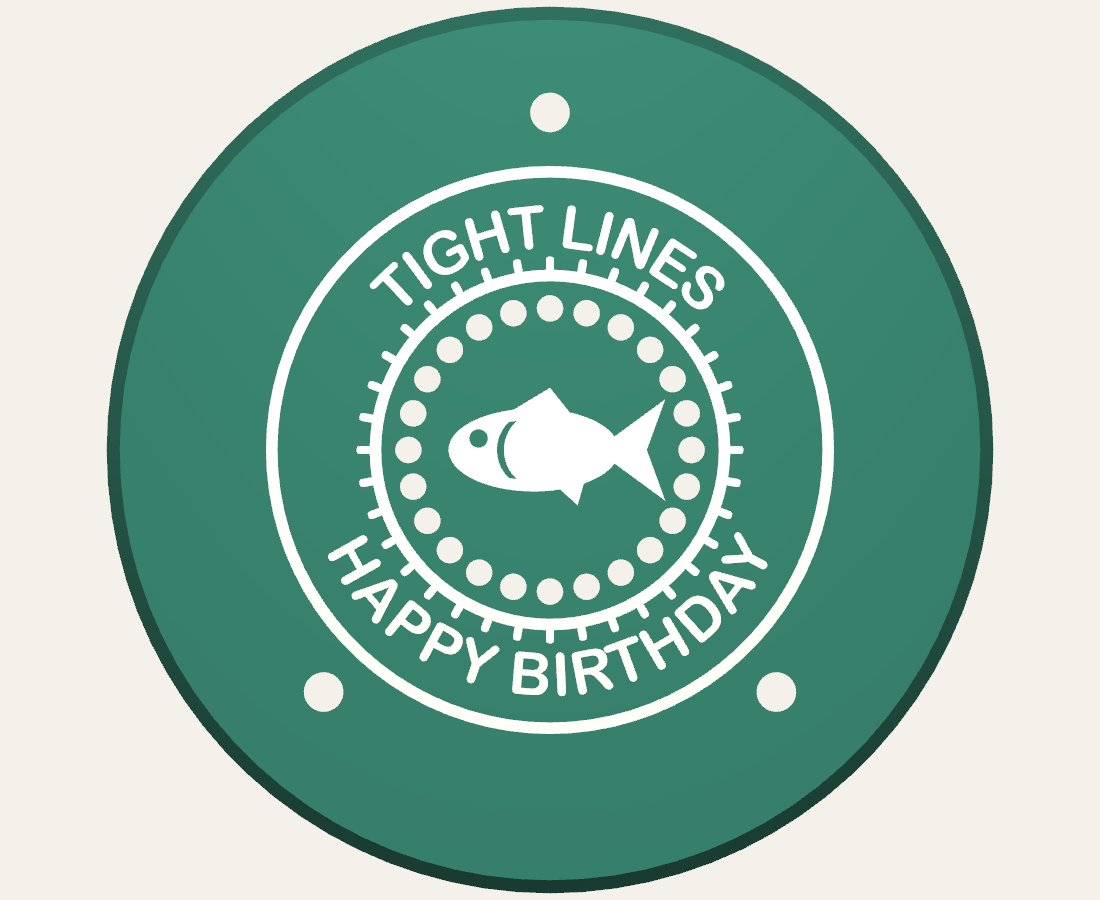
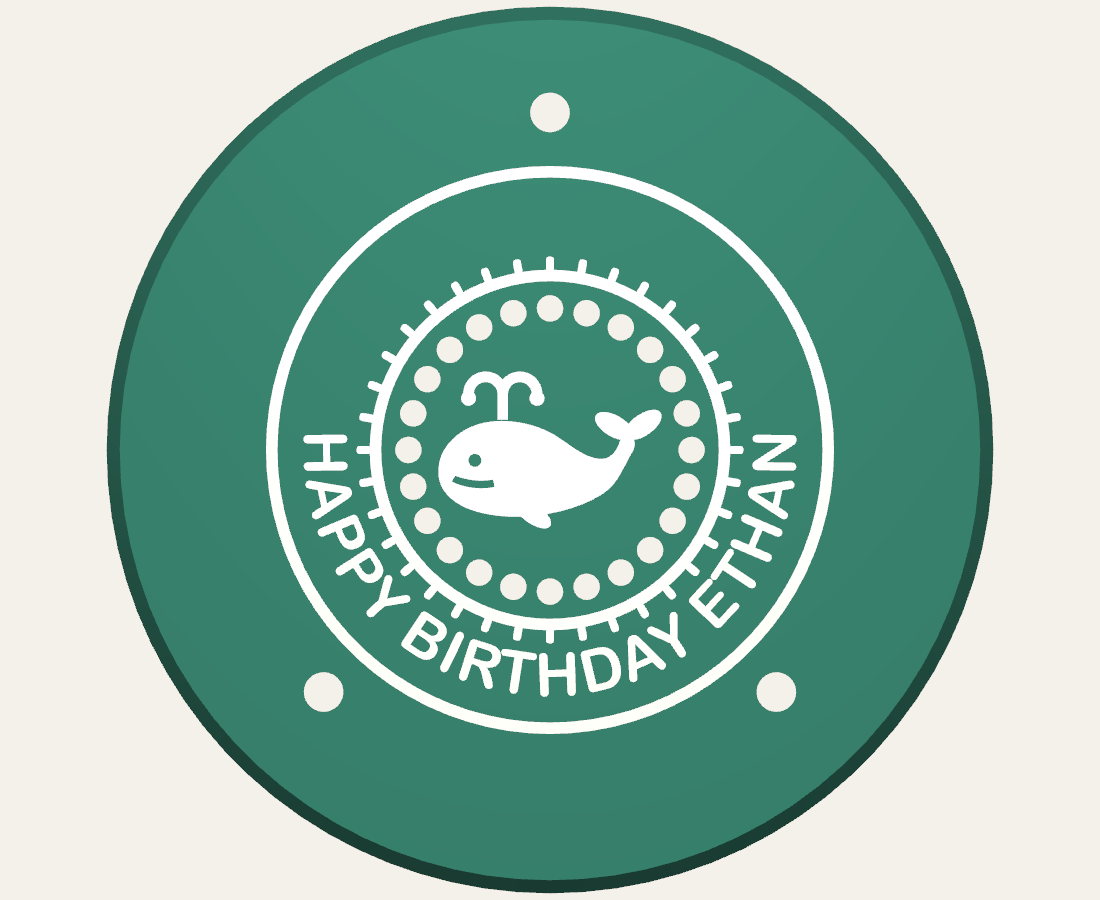
case: back art is a spouting whale and the only text is HAPPY BIRTHDAY ETHAN; check.py keeps the art clear of the grille holes

Changed region(s): [[0.2782, 0.4667, 0.7418, 0.7778], [0.4018, 0.4044, 0.6182, 0.5911], [0.34, 0.2178, 0.6491, 0.3422]]

diff --git a/case/parts.py b/case/parts.py
@@ -1,7 +1,7 @@
 """Case geometry, built from params.py (what you tune) and board.py (what was measured).
 
 The case is one cup shaped like a fly reel: the glass is the spool face, the rim is line wound
-between two flanges, and the back plate carries a drag-knob ring, a fish and two lines of
+between two flanges, and the back plate carries a drag-knob ring, a whale and a line of
 text. The board drops in glass-up and three M2 screws through the back pull its own SMT
 standoffs down onto posts, so nothing clips or glues. Two printed plungers carry PWR and BOOT
 through the rim. The battery variant is the same cup with the floor lowered by one cell.
@@ -20,12 +20,13 @@ from build123d import (
     Ellipse,
     Part,
     Plane,
-    Polygon,
     Polyline,
     Pos,
+    Rectangle,
     RectangleRounded,
     Rot,
     Sketch,
+    Spline,
     Text,
     ThreePointArc,
     extrude,
@@ -203,19 +204,53 @@ def port_cutouts() -> Part:
     return cuts
 
 
-def fish(length: float) -> Sketch:
-    """A side-on fish, nose to the left, centred on the origin."""
-    n = length
-    body = Pos(-0.07 * n, 0) * Ellipse(0.37 * n, 0.18 * n)
-    tail = Polygon(
-        (0.2 * n, 0), (0.5 * n, 0.22 * n), (0.42 * n, 0), (0.5 * n, -0.22 * n), align=None
+def whale(n: float) -> Sketch:
+    """A cartoon whale about `n` long: nose left, tail raised, spouting. Centred on the origin."""
+
+    def at(x, y):
+        return Pos(x * n, y * n)
+
+    outline = Spline(
+        *[
+            (x * n, y * n)
+            for x, y in (
+                (-0.50, -0.02),
+                (-0.46, 0.12),
+                (-0.34, 0.21),
+                (-0.14, 0.23),
+                (0.04, 0.17),
+                (0.18, 0.08),
+                (0.28, 0.06),
+                (0.34, 0.12),
+                (0.37, 0.17),
+                (0.41, 0.15),
+                (0.39, 0.06),
+                (0.31, -0.07),
+                (0.16, -0.16),
+                (-0.06, -0.21),
+                (-0.28, -0.20),
+                (-0.44, -0.13),
+            )
+        ],
+        periodic=True,
     )
-    dorsal = Polygon((-0.2 * n, 0.15 * n), (0.0, 0.27 * n), (0.12 * n, 0.12 * n), align=None)
-    belly = Polygon((0.02 * n, -0.15 * n), (0.12 * n, -0.24 * n), (0.16 * n, -0.1 * n), align=None)
-    eye = Pos(-0.31 * n, 0.05 * n) * Circle(0.04 * n)
-    gill = Pos(-0.06 * n, 0) * Circle(0.17 * n) - Pos(-0.03 * n, 0) * Circle(0.17 * n)
-    gill &= Pos(-0.07 * n, 0) * Ellipse(0.3 * n, 0.13 * n)
-    return body + tail + dorsal + belly - eye - gill
+    shape = make_face(outline)
+    for a in (150, 35):
+        r = math.radians(a)
+        fluke = Rot(0, 0, a) * Ellipse(0.1 * n, 0.05 * n)
+        shape += at(0.39 + 0.08 * math.cos(r), 0.17 + 0.08 * math.sin(r)) * fluke
+    shape += at(-0.06, -0.2) * Rot(0, 0, -35) * Ellipse(0.1 * n, 0.045 * n)
+    w = 0.05
+    shape += at(-0.2, 0.3) * Rectangle(w * n, 0.12 * n)
+    for cx, side in ((-0.28, 1), (-0.12, -1)):
+        arm = at(cx, 0.36) * (Circle((0.08 + w / 2) * n) - Circle((0.08 - w / 2) * n))
+        shape += arm & at(cx, 0.46) * Rectangle(0.3 * n, 0.2 * n)
+        shape += at(cx - side * 0.08, 0.34) * Circle(0.035 * n)
+    shape -= at(-0.33, 0.05) * Circle(0.03 * n)
+    mouth = at(-0.3, 0.25) * Circle(0.33 * n) - at(-0.3, 0.285) * Circle(0.33 * n)
+    shape -= mouth & at(-0.34, -0.07) * Ellipse(0.1 * n, 0.08 * n)
+    box = shape.bounding_box()
+    return Pos(-(box.min.X + box.max.X) / 2, -(box.min.Y + box.max.Y) / 2) * shape
 
 
 def arc_text(txt: str, radius: float, top: bool) -> Sketch:
@@ -237,7 +272,7 @@ def back_art_sketch() -> Sketch:
         art += Rot(0, 0, a) * Pos(r + w / 2 + 0.35, 0) * RectangleRounded(0.9, 0.5, 0.2)
     if p.OUTER_RING_R:
         art += Circle(p.OUTER_RING_R + w / 2) - Circle(p.OUTER_RING_R - w / 2)
-    art += fish(p.FISH_LENGTH)
+    art += whale(p.WHALE_SIZE)
     if p.TEXT_TOP:
         art += arc_text(p.TEXT_TOP, p.TEXT_RADIUS, top=True)
     if p.TEXT_BOTTOM:

diff --git a/case/params.py b/case/params.py
@@ -49,20 +49,20 @@ SD_SLOT = True
 SD_SLOT_SIZE = (13.0, 2.0)
 
 # --- Back plate artwork (debossed, so it prints face down with no supports) ---------------
-TEXT_TOP = "TIGHT LINES"
-TEXT_BOTTOM = "HAPPY BIRTHDAY"
+TEXT_TOP = ""  # empty for none
+TEXT_BOTTOM = "HAPPY BIRTHDAY ETHAN"
 FONT = "Arial Rounded MT Bold"
 TEXT_SIZE = 3.6
 TEXT_RADIUS = 13.6  # radius of the text centreline
-TEXT_SPAN = 150.0  # degrees of arc each line may use at most
+TEXT_SPAN = 200.0  # degrees of arc each line may use at most
 ART_DEPTH = 0.6
 ART_ROTATION = 0.0  # turn the whole back design (degrees) if the screen's "up" isn't +Y
-KNOB_RING_R = 10.6  # the "drag knob" ring around the fish
+KNOB_RING_R = 10.6  # the "drag knob" ring around the whale
 KNOB_RING_W = 0.7
 KNOB_TICKS = 36
-FISH_LENGTH = 14.0
+WHALE_SIZE = 13.0  # nose to tail; must stay inside the grille ring (check.py)
 OUTER_RING_R = 16.9  # thin ring just inside the screw heads; 0 to drop it
-GRILLE_R = 8.6  # speaker grille: a ring of holes around the fish, like a reel's ported knob
+GRILLE_R = 8.6  # speaker grille: a ring of holes around the whale, like a reel's ported knob
 GRILLE_HOLES = 24
 GRILLE_HOLE_D = 1.6
 

diff --git a/case/check.py b/case/check.py
@@ -97,6 +97,10 @@ def check_variant(battery: bool, solids: list):
         report((box & case).volume < OVERLAP, f"{item} ({dims}) clears the posts and rails")
         report(not overlaps(box, solids), f"{item} ({dims}) clears the board")
 
+    grille = parts.speaker_grille(battery)
+    clear = (parts.art(battery) & grille).volume < OVERLAP if p.SPEAKER else True
+    report(clear, "the back artwork stays clear of the grille holes")
+
     if parts.contents(battery):
         m = 0.5  # the two wires splay a little as they leave the plug
         plugs = [

diff --git a/case/README.md b/case/README.md
@@ -2,7 +2,7 @@
 
 A 3D-printable case for the Waveshare ESP32-S3-Touch-AMOLED-1.75, made to look like a fly-fishing
 reel. The screen is the spool, the rim is fishing line wound between two flanges, and the back is
-the drag knob: a fish, a speaker grille and "TIGHT LINES / HAPPY BIRTHDAY". PWR, BOOT, USB-C and
+the drag knob: a spouting whale, a speaker grille and "HAPPY BIRTHDAY ETHAN". PWR, BOOT, USB-C and
 the microSD slot all stay reachable.
 
 ![front](previews/front.png)
@@ -21,7 +21,7 @@ Waveshare's own STEP model of the board (in `../docs/`).
   |  |  three M2 standoffs onto three posts  |  |   PWR / BOOT plungers (2 and 4 o'clock)
   |  |       [ speaker, face down ]          |  |   microSD slot (3 o'clock)
   |__|_______o o o grille o o o_____________|__|
-       back: fish, text, 3 screw heads
+       back: whale, text, 3 screw heads
 ```
 
 - The case is one cup. The board drops in glass-up and three M2 screws through the back go into
